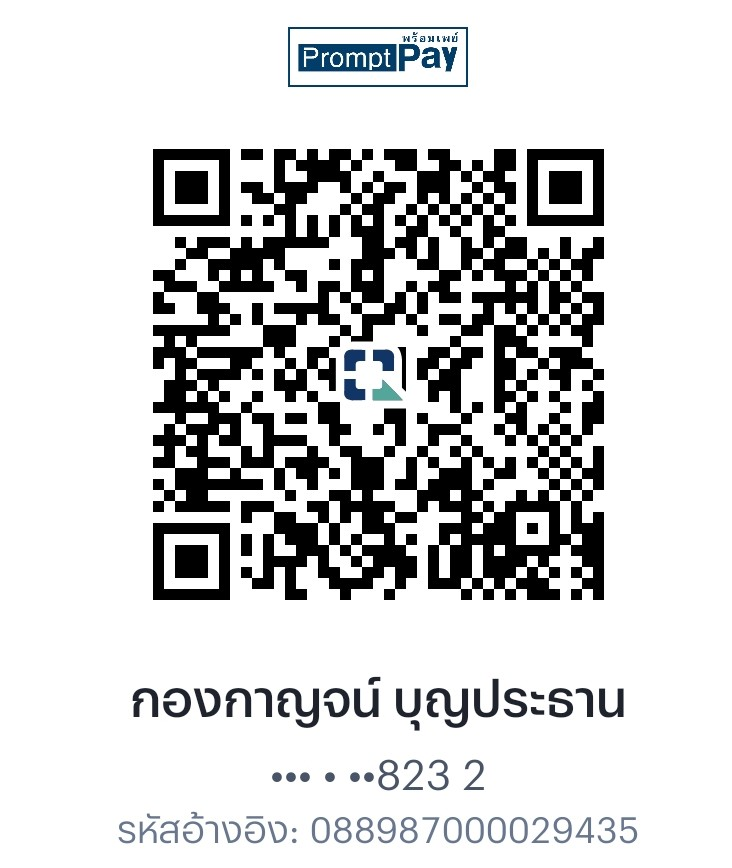
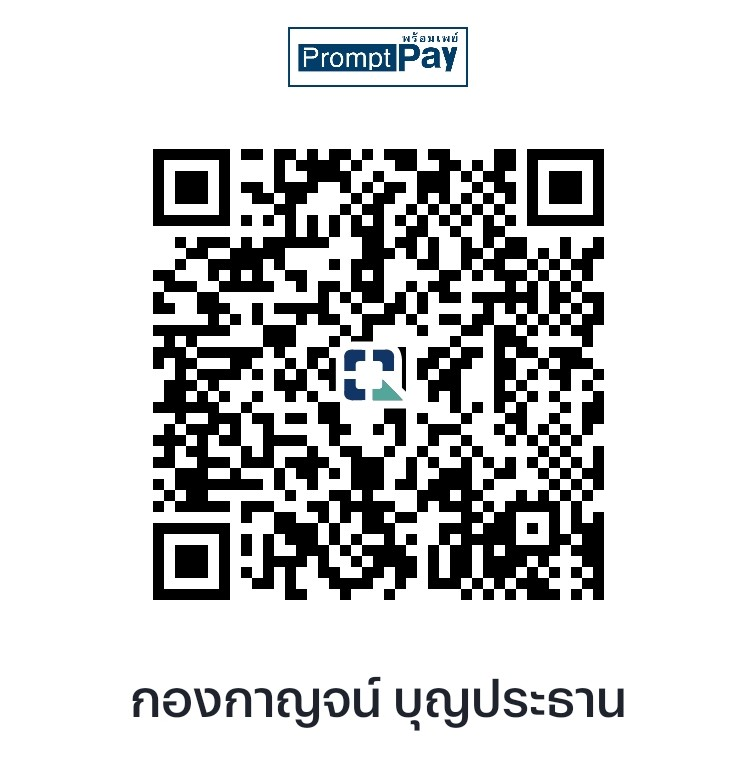
PromptPay QR: keep account name, drop masked number and ref
Claude-Session: https://claude.ai/code/session_019RUqranrGtQ3HGsCHnWydx

Changed region(s): [[0.1803, 0.1509, 0.8716, 0.8451], [0.1503, 0.8753, 0.8716, 0.9961], [0.3907, 0.0302, 0.6311, 0.1207]]

diff --git a/shop-order-next.html b/shop-order-next.html
@@ -270,7 +270,7 @@ textarea{min-height:76px;resize:vertical}
     <button class="btn primary full" id="saveImgBtn" type="button">บันทึกรูปสรุปออเดอร์</button>
     <p style="margin:14px 0 0">ยอดที่ต้องโอน</p>
     <div class="amt" id="dAmt">-</div>
-    <img class="ppqr" src="promptpay_shop.jpg?v=1" alt="QR PromptPay ของร้าน Fixtory Studio">
+    <img class="ppqr" src="promptpay_shop.jpg?v=2" alt="QR PromptPay ของร้าน Fixtory Studio">
     <p class="hint">สแกนแล้วพิมพ์จำนวนเงินเองตอนโอน (QR ไม่ได้ผูกจำนวนเงิน)</p>
     <div class="slip" id="slipBox">
       <b class="slip-t">แนบสลิปโอน</b>

diff --git a/shop-order.html b/shop-order.html
@@ -270,7 +270,7 @@ textarea{min-height:76px;resize:vertical}
     <button class="btn primary full" id="saveImgBtn" type="button">บันทึกรูปสรุปออเดอร์</button>
     <p style="margin:14px 0 0">ยอดที่ต้องโอน</p>
     <div class="amt" id="dAmt">-</div>
-    <img class="ppqr" src="promptpay_shop.jpg?v=1" alt="QR PromptPay ของร้าน Fixtory Studio">
+    <img class="ppqr" src="promptpay_shop.jpg?v=2" alt="QR PromptPay ของร้าน Fixtory Studio">
     <p class="hint">สแกนแล้วพิมพ์จำนวนเงินเองตอนโอน (QR ไม่ได้ผูกจำนวนเงิน)</p>
     <div class="slip" id="slipBox">
       <b class="slip-t">แนบสลิปโอน</b>
